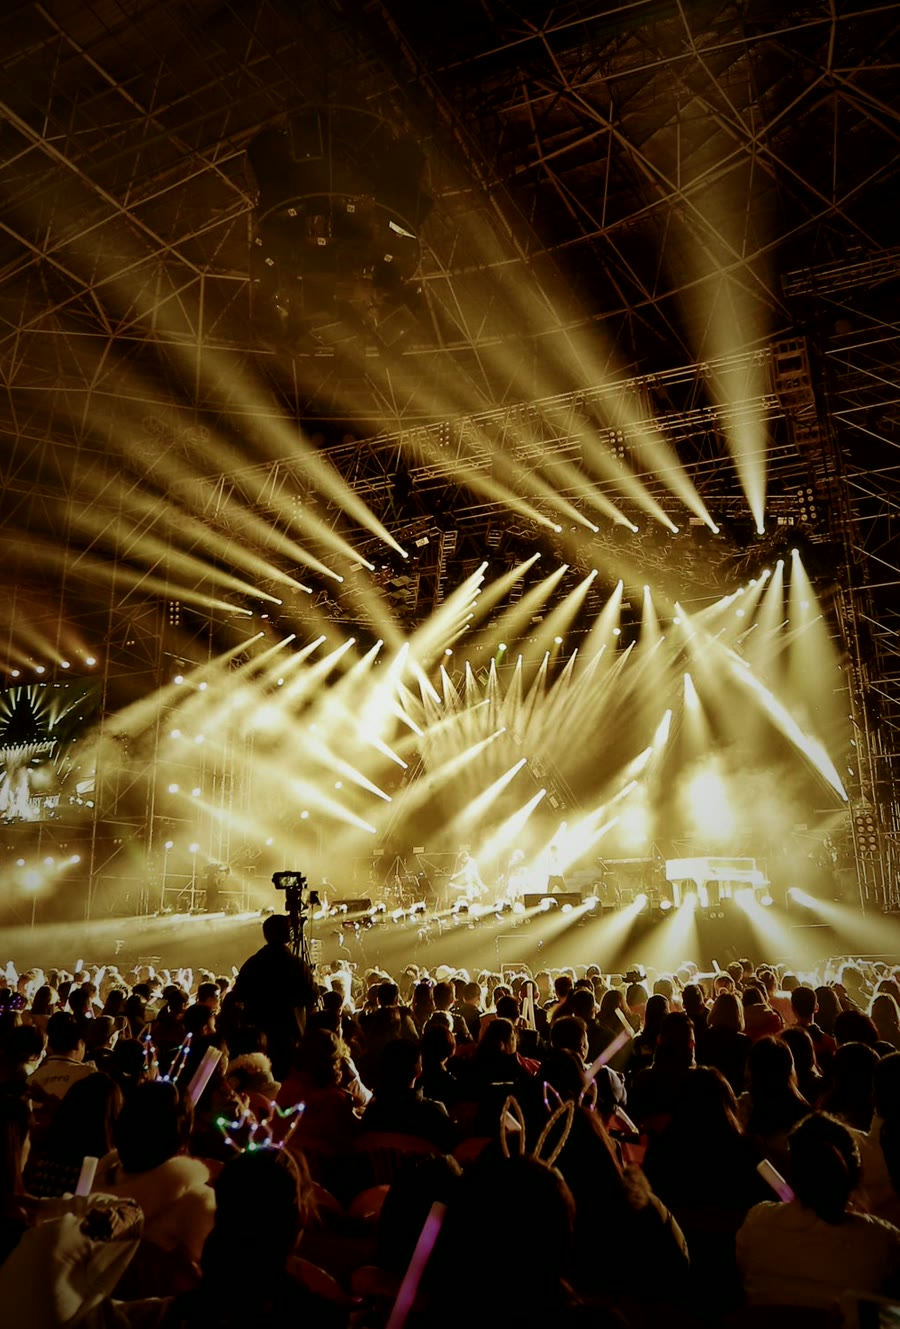
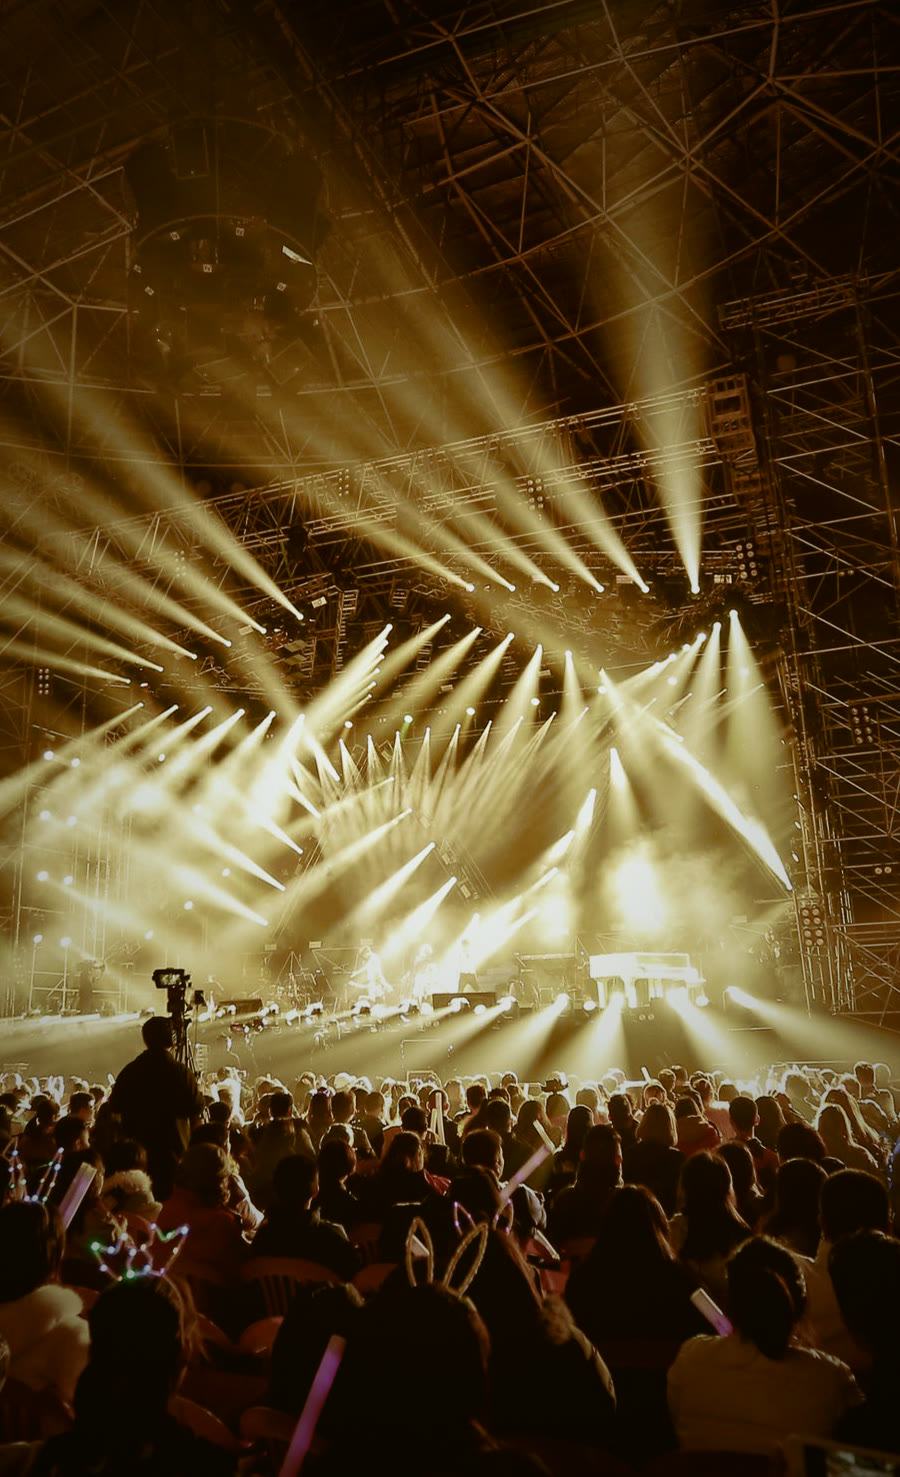
Separate stage hero, restore capability photography and Big John portrait

diff --git a/main.js b/main.js
@@ -5,7 +5,7 @@ import { UnrealBloomPass } from './vendor/postprocessing/UnrealBloomPass.js';
 import { OutputPass } from './vendor/postprocessing/OutputPass.js';
 
 const canvas = document.querySelector('#genesis');
-const hero = document.querySelector('.hero');
+const mobiusSection = document.querySelector('.mobius-section');
 const reduced = matchMedia('(prefers-reduced-motion: reduce)').matches;
 
 let renderer;
@@ -43,14 +43,14 @@ if (renderer) {
   panel(10, 2, 0xe77b18, 3.5, [0, -5, 4], [0.45, 0, 0]);
   const envMap = pmrem.fromScene(envScene, 0.025).texture;
 
-  function buildMobiusGeometry(segments = 300, across = 26, radius = 3.0, halfWidth = 1.08, thickness = 0.095) {
+  function buildMobiusGeometry(segments = 300, across = 26, radius = 3.0, halfWidth = 1.18, thickness = 0.095) {
     const positions = [];
     const indices = [];
     const layerSize = (segments + 1) * across;
 
     function point(u, v) {
       const cu = Math.cos(u), su = Math.sin(u), ch = Math.cos(u * 0.5), sh = Math.sin(u * 0.5);
-      const breathing = 1 + 0.018 * Math.cos(u * 3) - 0.012 * Math.sin(u * 5);
+      const breathing = 1 + 0.062 * Math.cos(u * 3 - 0.25) - 0.018 * Math.sin(u * 5);
       const rr = radius * breathing + v * ch;
       return new THREE.Vector3(rr * cu, v * sh, rr * su);
     }
@@ -94,19 +94,22 @@ if (renderer) {
 
   const gold = new THREE.MeshPhysicalMaterial({
     color: 0xe9aa3f,
-    metalness: 1,
-    roughness: 0.07,
+    metalness: 0.94,
+    roughness: 0.085,
     clearcoat: 1,
     clearcoatRoughness: 0.025,
     envMap,
-    envMapIntensity: 3.5,
+    envMapIntensity: 3.0,
     emissive: new THREE.Color(0x3c1a01),
-    emissiveIntensity: 0.34,
+    emissiveIntensity: 0.12,
     side: THREE.DoubleSide
   });
 
   const mobius = new THREE.Group();
-  const ribbon = new THREE.Mesh(buildMobiusGeometry(innerWidth < 760 ? 190 : 320, innerWidth < 760 ? 18 : 30), gold);
+  const ribbonGeo = buildMobiusGeometry(innerWidth < 760 ? 190 : 320, innerWidth < 760 ? 18 : 30);
+  const fillRibbon = new THREE.Mesh(ribbonGeo, new THREE.MeshBasicMaterial({ color:0xa46018, transparent:true, opacity:.43, side:THREE.DoubleSide }));
+  fillRibbon.scale.setScalar(.998); mobius.add(fillRibbon);
+  const ribbon = new THREE.Mesh(ribbonGeo, gold);
   mobius.add(ribbon);
 
   // A soft inner echo adds liquid depth without changing the silhouette.
@@ -115,13 +118,14 @@ if (renderer) {
   echo.material.envMapIntensity = 2.1;
   echo.material.emissiveIntensity = 0.14;
   echo.scale.setScalar(0.992);
+  echo.visible = false;
   mobius.add(echo);
 
-  mobius.rotation.set(0.22, -0.34, -0.17);
+  mobius.rotation.set(0.79, -0.28, -0.20);
   scene.add(mobius);
 
   // Orbiting filament energy and star-like points.
-  const orbitMat = new THREE.MeshBasicMaterial({ color: 0xffc96d, transparent: true, opacity: 0.28, blending: THREE.AdditiveBlending, depthWrite: false });
+  const orbitMat = new THREE.MeshBasicMaterial({ color: 0xffc96d, transparent: true, opacity: 0.085, blending: THREE.AdditiveBlending, depthWrite: false });
   const orbits = [];
   [[4.1, 1.22, 0.18, 0.12], [4.55, 1.05, -0.28, -0.42], [3.85, 1.46, 0.36, 0.72]].forEach(([r, x, y, z], i) => {
     const o = new THREE.Mesh(new THREE.TorusGeometry(r, i === 0 ? 0.012 : 0.007, 7, 360), orbitMat.clone());
@@ -161,52 +165,54 @@ if (renderer) {
   grad.addColorStop(0,'rgba(255,201,105,.40)'); grad.addColorStop(.22,'rgba(242,158,49,.16)'); grad.addColorStop(.62,'rgba(150,72,10,.035)'); grad.addColorStop(1,'rgba(0,0,0,0)');
   hg.fillStyle=grad; hg.fillRect(0,0,256,256);
   const halo = new THREE.Sprite(new THREE.SpriteMaterial({ map:new THREE.CanvasTexture(haloCanvas), transparent:true, blending:THREE.AdditiveBlending, depthWrite:false, opacity:.86 }));
-  halo.scale.set(13,13,1); halo.position.z=-1.4; mobius.add(halo);
+  halo.scale.set(8.2,8.2,1); halo.position.z=-1.4; halo.material.opacity=.06; mobius.add(halo);
 
-  const key = new THREE.PointLight(0xffbf62, 16, 18, 1.65); key.position.set(-1.5,2.5,4.5); scene.add(key);
-  const rim = new THREE.PointLight(0xffe2a0, 11, 16, 1.9); rim.position.set(3.6,-1.5,4); scene.add(rim);
+  scene.add(new THREE.AmbientLight(0xffb85f, 0.72));
+  const fill = new THREE.DirectionalLight(0xffe0a0, 1.35); fill.position.set(0,4,8); scene.add(fill);
+  const key = new THREE.PointLight(0xffbf62, 3.8, 18, 1.65); key.position.set(-1.5,2.5,4.5); scene.add(key);
+  const rim = new THREE.PointLight(0xffe2a0, 3.2, 16, 1.9); rim.position.set(3.6,-1.5,4); scene.add(rim);
 
   const composer = new EffectComposer(renderer);
   composer.addPass(new RenderPass(scene, camera));
-  const bloom = new UnrealBloomPass(new THREE.Vector2(1,1), 1.1, 0.56, 0.64);
+  const bloom = new UnrealBloomPass(new THREE.Vector2(1,1), 0.31, 0.38, 0.83);
   composer.addPass(bloom);
   composer.addPass(new OutputPass());
 
   let mobile = false;
   function resize(){
-    const w=hero.clientWidth, h=hero.clientHeight;
+    const w=mobiusSection.clientWidth, h=mobiusSection.clientHeight;
     mobile=w<760;
     renderer.setSize(w,h,false); composer.setSize(w,h); bloom.setSize(w,h);
     camera.aspect=w/h;
     camera.fov=mobile?36:31;
     camera.updateProjectionMatrix();
     if(mobile){
-      mobius.position.set(0,-3.0,0);
-      mobius.scale.setScalar(.68);
-      camera.position.z=14.7;
+      mobius.position.set(0,0,0);
+      mobius.scale.setScalar(.72);
+      camera.position.z=14.2;
     }else{
-      mobius.position.set(3.4,.55,0);
-      mobius.scale.setScalar(1.0);
-      camera.position.z=13.2;
+      mobius.position.set(0,0.1,0);
+      mobius.scale.setScalar(1.02);
+      camera.position.z=13.0;
     }
     dustMat.uniforms.uPx.value=renderer.getPixelRatio();
   }
-  new ResizeObserver(resize).observe(hero); resize();
+  new ResizeObserver(resize).observe(mobiusSection); resize();
 
   let tx=0,ty=0,mx=0,my=0;
   addEventListener('pointermove',e=>{tx=e.clientX/innerWidth-.5;ty=e.clientY/innerHeight-.5;},{passive:true});
   let visible=true;
-  new IntersectionObserver(([e])=>visible=e.isIntersecting).observe(hero);
+  new IntersectionObserver(([e])=>visible=e.isIntersecting).observe(mobiusSection);
   const clock=new THREE.Clock();
   function tick(){
     requestAnimationFrame(tick);
     if(!visible) return;
     const t=reduced?2.5:clock.getElapsedTime();
     mx+=(tx-mx)*.035; my+=(ty-my)*.035;
-    mobius.rotation.y=-.34 + Math.sin(t*.18)*.08 + mx*.14;
-    mobius.rotation.x=.22 + Math.sin(t*.22)*.045 + my*.07;
-    mobius.rotation.z=-.17 + Math.sin(t*.13)*.028;
-    mobius.position.y=(mobile?-3.0:.55)+Math.sin(t*.55)*.07;
+    mobius.rotation.y=-.28 + Math.sin(t*.18)*.05 + mx*.09;
+    mobius.rotation.x=.79 + Math.sin(t*.22)*.035 + my*.05;
+    mobius.rotation.z=-.20 + Math.sin(t*.13)*.022;
+    mobius.position.y=(mobile?0:.1)+Math.sin(t*.55)*.06;
     orbits[0].rotation.z=t*.045; orbits[1].rotation.z=-t*.035; orbits[2].rotation.z=t*.026;
     dustMat.uniforms.uTime.value=t;
     composer.render();
@@ -220,7 +226,7 @@ nav?.querySelectorAll('a').forEach(a=>a.addEventListener('click',()=>{nav.hidden
 const header=document.querySelector('.site-header');
 const onScroll=()=>header.classList.toggle('scrolled',scrollY>40);
 addEventListener('scroll',onScroll,{passive:true});onScroll();
-const revealEls=[...document.querySelectorAll('.section-head,.cap-grid article,.proof-row b,.about-copy,.about-orbit,.partner-copy,.partner-cards article,.contact>*')];
+const revealEls=[...document.querySelectorAll('.section-head,.cap-grid article,.proof-row b,.about-copy,.about-photo,.partner-copy,.partner-cards article,.contact>*')];
 revealEls.forEach(el=>{el.style.opacity='0';el.style.transform='translateY(22px)';});
 const io=new IntersectionObserver(entries=>entries.forEach(e=>{if(e.isIntersecting){e.target.animate([{opacity:0,transform:'translateY(22px)'},{opacity:1,transform:'translateY(0)'}],{duration:750,easing:'cubic-bezier(.2,.8,.2,1)',fill:'forwards'});io.unobserve(e.target);}}),{threshold:.12});
 revealEls.forEach(el=>io.observe(el));

diff --git a/index.html b/index.html
@@ -26,11 +26,10 @@
   <main>
     <section class="hero" id="top">
       <div class="stage-plate" aria-hidden="true"></div>
-      <canvas id="genesis" aria-hidden="true"></canvas>
       <div class="hero-ambient" aria-hidden="true"></div>
       <div class="hero-copy">
-        <p class="eyebrow">ENTERTAINMENT · EXPERIENCES · PEOPLE · POSSIBILITIES</p>
-        <h1>TURN THE ROOM<br><span>INTO MAGIC.</span></h1>
+        <p class="eyebrow">ENTERTAINMENT · EXPERIENCES · PEOPLE · <br class="mobile-only">POSSIBILITIES</p>
+        <h1><span class="desktop-hero-line">TURN THE ROOM</span><span class="mobile-hero-line">TURN THE<br>ROOM</span><br><span>INTO MAGIC.</span></h1>
         <p class="hero-deck">Big Shack Entertainment connects brands, agencies, venues, nonprofits and clients to the right talent, production resources and creative partners — then makes it happen.</p>
         <div class="hero-actions"><a class="btn btn-gold" href="#contact">START THE CONVERSATION <span>↗</span></a><a class="btn btn-ghost" href="#capabilities">SEE CAPABILITIES <span>↓</span></a></div>
         <div class="hero-meta"><span>TURNKEY ENTERTAINMENT</span><i></i><span>EXPERIENTIAL PRODUCTION</span><i></i><span>WHITE-LABEL PARTNERSHIPS</span></div>
@@ -38,14 +37,18 @@
       
       <div class="scroll-mark">SCROLL TO ENTER <span>↓</span></div>
     </section>
+    <section class="mobius-section" id="genesisSection" aria-label="Big Shack signature">
+      <canvas id="genesis" aria-hidden="true"></canvas>
+      <div class="mobius-vignette" aria-hidden="true"></div>
+    </section>
     <section class="section capabilities" id="capabilities">
       <div class="section-head"><p class="eyebrow">WHAT BIG SHACK CAN BUILD AROUND YOU</p><h2>ONE CALL.<br><span>THE RIGHT WORLD.</span></h2><p>John's value is not a menu of commodities. It's access, production judgment and the ability to assemble the right people around the moment.</p></div>
       <div class="cap-grid">
-        <article><span>01</span><h3>LIVE ENTERTAINMENT</h3><p>Concerts, artists, touring talent, private performances and entertainment built around the room — not dropped into it.</p><a href="#contact">BUILD THE ROOM ↗</a></article>
-        <article><span>02</span><h3>EXPERIENTIAL</h3><p>Brand activations, launches, hospitality and large-scale experiences with production thinking from concept through execution.</p><a href="#contact">MAKE IT REAL ↗</a></article>
-        <article><span>03</span><h3>NONPROFIT + BENEFIT</h3><p>Entertainment-led fundraising moments designed to bring attention, energy and the right audience to causes that matter.</p><a href="#contact">CREATE IMPACT ↗</a></article>
-        <article><span>04</span><h3>AGENCY / WHITE LABEL</h3><p>A production and entertainment partner agencies can put behind their own client relationship — visibly or invisibly.</p><a href="#contact">EXTEND THE TEAM ↗</a></article>
-        <article><span>05</span><h3>TALENT + NETWORK</h3><p>Artists, personalities, venues, producers and specialist partners sourced through a deep, trusted entertainment network.</p><a href="#contact">OPEN THE NETWORK ↗</a></article>
+        <article><div class="cap-image"><img src="assets/cap-01.jpg" alt="Concert crowd under stage lighting"></div><h3>LIVE ENTERTAINMENT</h3><p>Concerts, artists, touring talent, private performances and entertainment built around the room — not dropped into it.</p><a href="#contact">BUILD THE ROOM ↗</a></article>
+        <article><div class="cap-image"><img src="assets/cap-02.jpg" alt="Immersive brand event under circular lighting"></div><h3>EXPERIENTIAL</h3><p>Brand activations, launches, hospitality and large-scale experiences with production thinking from concept through execution.</p><a href="#contact">MAKE IT REAL ↗</a></article>
+        <article><div class="cap-image"><img src="assets/cap-03.jpg" alt="Benefit event and gala atmosphere"></div><h3>NONPROFIT + BENEFIT</h3><p>Entertainment-led fundraising moments designed to bring attention, energy and the right audience to causes that matter.</p><a href="#contact">CREATE IMPACT ↗</a></article>
+        <article><div class="cap-image"><img src="assets/cap-04.jpg" alt="Agency partners meeting at an event"></div><h3>AGENCY / WHITE LABEL</h3><p>A production and entertainment partner agencies can put behind their own client relationship — visibly or invisibly.</p><a href="#contact">EXTEND THE TEAM ↗</a></article>
+        <article><div class="cap-image"><img src="assets/cap-05.jpg" alt="Private aviation and premium production access"></div><h3>TALENT + NETWORK</h3><p>Artists, personalities, venues, producers and specialist partners sourced through a deep, trusted entertainment network.</p><a href="#contact">OPEN THE NETWORK ↗</a></article>
       </div>
     </section>
     <section class="proof" id="work">
@@ -54,7 +57,7 @@
       <p class="proof-note">Private concept preview. Final public credits, talent references and partner language will be verified with John before launch.</p>
     </section>
     <section class="section about" id="about">
-      <div class="about-orbit" aria-hidden="true"><div class="orbital-line one"></div><div class="orbital-line two"></div><div class="orbital-core">BJK</div></div>
+      <figure class="about-photo"><img src="assets/big-john.jpg" alt="Big John Krishack"></figure>
       <div class="about-copy"><p class="eyebrow">THE MAN BEHIND BIG SHACK</p><h2>BIG JOHN<br>KRISHACK.</h2><p class="about-lead">Experience. Relationships. Execution.</p><p>John is a veteran experiential producer, operator and logistics leader with nearly two decades of work spanning live entertainment, branded experiences, national tours and complex field production. His background includes long-term Bombardier exhibition work, Adult Swim, Warner Music Group, FIFA activations, SiriusXM live production and the EventSpeak industry podcast.</p><p>Big Shack is the front door: the call you make when the moment needs to be exceptional, but you do not want to quarterback six different vendors to get there.</p><div class="stats"><div><strong>20+</strong><span>YEARS AROUND LIVE + EXPERIENTIAL</span></div><div><strong>GLOBAL</strong><span>ARTISTS, AGENCIES, BRANDS + VENUES</span></div><div><strong>TURNKEY</strong><span>PRODUCTION, LOGISTICS + PARTNERS</span></div></div></div>
     </section>
     <section class="section partner-model">

diff --git a/styles.css b/styles.css
@@ -58,19 +58,71 @@
 
 /* ===== v3: photographic room + live Three.js genesis ===== */
 .hero{isolation:isolate;background:#020202;height:max(860px,100svh)}
-.stage-plate{position:absolute;inset:0;z-index:0;background-image:url('assets/stage-hero.jpg');background-size:cover;background-position:center 52%;filter:saturate(.96) contrast(1.03) brightness(.88);transform:scale(1.012);transform-origin:center;pointer-events:none}
-.hero canvas{z-index:2;background:transparent;pointer-events:none}
+.stage-plate{position:absolute;inset:0;z-index:0;background-image:url('assets/stage-hero.jpg');background-size:cover;background-position:center 52%;filter:sepia(.52) saturate(1.08) contrast(1.07) brightness(.86);transform:scale(1.012);transform-origin:center;pointer-events:none}
+.hero canvas{z-index:2;background:transparent;pointer-events:none;mix-blend-mode:screen}
 .hero-ambient{z-index:3;background:
-  linear-gradient(90deg,#020202 0%,rgba(2,2,2,.94) 18%,rgba(2,2,2,.75) 31%,rgba(2,2,2,.28) 47%,rgba(2,2,2,.03) 64%,rgba(2,2,2,.12) 100%),
-  linear-gradient(180deg,#020202 0%,rgba(2,2,2,.48) 10%,transparent 28%,transparent 77%,#020202 100%),
+  linear-gradient(90deg,#020202 0%,rgba(2,2,2,.94) 18%,rgba(2,2,2,.75) 31%,rgba(2,2,2,.22) 45%,rgba(2,2,2,.00) 59%,rgba(2,2,2,.04) 100%),
+  linear-gradient(180deg,#020202 0%,rgba(2,2,2,.48) 10%,transparent 28%,transparent 86%,#020202 100%),
   radial-gradient(ellipse 50% 46% at 72% 44%,rgba(223,147,40,.08),transparent 70%)}
 .hero-copy{z-index:5;text-shadow:0 2px 28px rgba(0,0,0,.52)}
 .hero h1{font-weight:300;letter-spacing:-.045em}
 .monogram{font-family:"Avenir Next Condensed","Avenir Next","Helvetica Neue",Arial,sans-serif!important}
 @media(max-width:720px){
   .hero{min-height:1160px;height:auto}
-  .stage-plate{background-image:url('assets/stage-hero-mobile.jpg');background-size:cover;background-position:center bottom;filter:saturate(.92) contrast(1.06) brightness(.76);top:44%;height:56%}
+  .stage-plate{background-image:url('assets/stage-hero-mobile.jpg');background-size:cover;background-position:center bottom;filter:sepia(.48) saturate(1.05) contrast(1.06) brightness(.82);top:44%;height:56%}
   .hero-ambient{background:linear-gradient(180deg,#020202 0%,#020202 40%,rgba(2,2,2,.93) 49%,rgba(2,2,2,.15) 67%,rgba(2,2,2,.20) 88%,#020202 100%),radial-gradient(ellipse 92% 42% at 50% 72%,rgba(223,147,40,.10),transparent 72%)}
   .hero-copy{padding:145px 20px 570px}
   .hero h1{font-size:clamp(52px,14.5vw,76px)}
+}
+
+/* ===== v4: stage-first landing, separated Genesis, restored photography ===== */
+.hero{background:#020202}
+.hero .stage-plate{z-index:0}
+.hero .hero-ambient{z-index:1}
+.hero .hero-copy,.hero .scroll-mark{z-index:3}
+
+.mobius-section{position:relative;height:72svh;min-height:620px;overflow:hidden;background:radial-gradient(ellipse at 50% 50%,rgba(178,109,22,.10),transparent 32%),#020202;border-bottom:1px solid rgba(224,174,82,.18);isolation:isolate}
+.mobius-section canvas{position:absolute;inset:0;width:100%;height:100%;z-index:1;background:transparent;pointer-events:none;mix-blend-mode:screen}
+.mobius-vignette{position:absolute;inset:0;z-index:2;pointer-events:none;background:radial-gradient(ellipse 55% 70% at 50% 50%,transparent 38%,rgba(2,2,2,.2) 66%,#020202 100%),linear-gradient(180deg,#020202 0%,transparent 15%,transparent 84%,#020202 100%)}
+
+.cap-grid article{overflow:hidden}
+.cap-image{height:180px;margin:-24px -22px 20px;overflow:hidden;border-bottom:1px solid rgba(224,174,82,.20);background:#0a0805}
+.cap-image img{width:100%;height:100%;display:block;object-fit:cover;filter:saturate(.92) contrast(1.06);transition:transform .55s cubic-bezier(.2,.8,.2,1),filter .35s ease}
+.cap-grid article:hover .cap-image img{transform:scale(1.035);filter:saturate(1.04) contrast(1.08)}
+.cap-grid article>span{display:block;margin-top:2px}
+.cap-grid h3{margin-top:28px}
+
+.about-photo{position:relative;margin:0;aspect-ratio:1/1.02;overflow:hidden;border:1px solid rgba(224,174,82,.18);background:#050403;box-shadow:0 30px 100px rgba(0,0,0,.45)}
+.about-photo img{width:100%;height:100%;display:block;object-fit:cover;object-position:center 42%;filter:sepia(1) saturate(1.75) hue-rotate(350deg) contrast(1.12) brightness(.88)}
+.about-photo::after{content:"";position:absolute;inset:0;pointer-events:none;background:linear-gradient(90deg,transparent 52%,rgba(5,5,5,.34) 100%),linear-gradient(0deg,rgba(5,5,5,.22),transparent 34%),radial-gradient(circle at 28% 35%,rgba(255,188,67,.11),transparent 34%);mix-blend-mode:screen}
+
+.contact{background-image:linear-gradient(90deg,rgba(4,3,2,.92) 0%,rgba(4,3,2,.70) 36%,rgba(4,3,2,.24) 62%,rgba(4,3,2,.68) 100%),url('assets/gold-flow.jpg');background-size:cover;background-position:center;border-top:1px solid rgba(224,174,82,.26)}
+.contact-glow{display:none}
+
+@media(max-width:720px){
+  .mobius-section{height:58svh;min-height:500px}
+  .cap-image{height:210px}
+  .about-photo{aspect-ratio:4/5;max-width:520px;width:100%;margin-inline:auto}
+  .contact{background-position:58% center}
+}
+@media(max-width:720px){
+  .hero-copy{width:100%;max-width:100vw;min-width:0;padding-left:20px;padding-right:20px;overflow:hidden}
+  .hero h1{font-size:clamp(46px,12vw,58px);line-height:.96;max-width:100%}
+  .hero-deck{width:100%;max-width:100%;overflow-wrap:anywhere}
+  .hero .eyebrow{max-width:100%;line-height:1.55;letter-spacing:.21em;overflow-wrap:anywhere}
+  .hero-actions{width:100%;max-width:100%}
+}
+.mobile-only,.mobile-hero-line{display:none}
+@media(max-width:720px){
+  .desktop-hero-line{display:none}
+  .mobile-hero-line{display:inline}
+  .mobile-only{display:block}
+  .hero h1{font-size:clamp(48px,13vw,56px);white-space:normal}
+  .hero-copy{flex:0 0 100%}
+}
+@media(max-width:720px){
+  .hero-copy{inline-size:calc(100vw - 40px)!important;max-inline-size:calc(100vw - 40px)!important;width:calc(100vw - 40px)!important;overflow:visible}
+  .hero-deck,.hero-actions,.hero-meta{inline-size:100%;max-inline-size:100%}
+  .hero-deck{overflow-wrap:break-word;word-break:normal}
+  .hero-actions .btn{max-inline-size:100%}
 }
